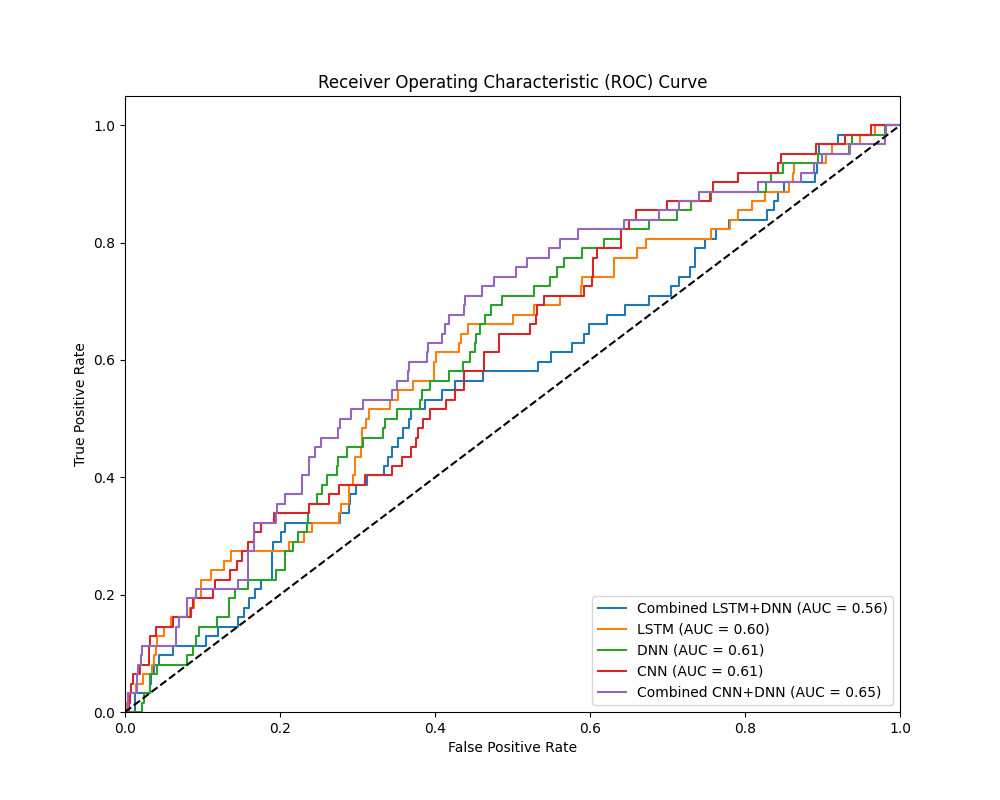
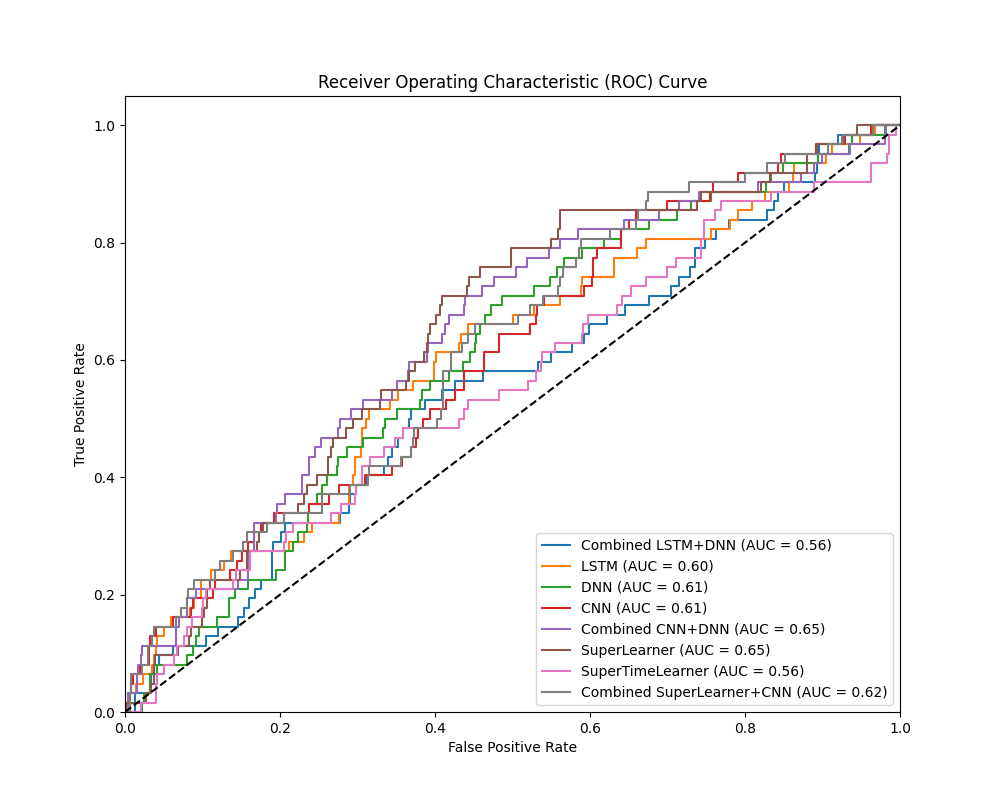
added superlearners

diff --git a/models/models.py b/models/models.py
@@ -1,4 +1,5 @@
 import numpy as np
+from sklearn.base import BaseEstimator, ClassifierMixin
 import torch
 import torch.nn as nn
 import torch.optim as optim
@@ -192,3 +193,198 @@ def init_weights(m):
 
 
 
+import numpy as np
+from sklearn.linear_model import LogisticRegression
+from sklearn.model_selection import KFold
+
+class SuperLearner:
+    def __init__(self, base_models, meta_model=None, n_folds=5):
+        self.base_models = base_models
+        self.meta_model = meta_model if meta_model is not None else LogisticRegression()
+        self.n_folds = n_folds
+
+    def fit(self, X, y):
+        n_models = len(self.base_models)
+        n_samples = X.shape[0]
+        
+        # Initialize out-of-fold predictions
+        S_train = np.zeros((n_samples, n_models))
+        
+        # K-fold cross-validation
+        kf = KFold(n_splits=self.n_folds, shuffle=True, random_state=42)
+        
+        # Train base models and generate out-of-fold predictions
+        for i, model in enumerate(self.base_models):
+            for train_index, val_index in kf.split(X):
+                X_train, X_val = X[train_index], X[val_index]
+                y_train, y_val = y[train_index], y[val_index]
+                
+                model.fit(X_train, y_train)
+                S_train[val_index, i] = model.predict_proba(X_val)[:, 1]
+        
+        # Fit the meta-model on the out-of-fold predictions
+        self.meta_model.fit(S_train, y)
+        
+        # Retrain base models on full dataset
+        for model in self.base_models:
+            model.fit(X, y)
+
+    def predict_proba(self, X):
+        n_models = len(self.base_models)
+        n_samples = X.shape[0]
+        
+        # Generate predictions from base models
+        S_test = np.zeros((n_samples, n_models))
+        for i, model in enumerate(self.base_models):
+            S_test[:, i] = model.predict_proba(X)[:, 1]
+        
+        # Use meta-model to make final predictions
+        return self.meta_model.predict_proba(S_test)
+
+import numpy as np
+from sklearn.model_selection import KFold
+from sklearn.linear_model import LogisticRegression
+from sklearn.ensemble import GradientBoostingClassifier, RandomForestClassifier
+from sklearn.svm import SVC
+from sklearn.preprocessing import StandardScaler
+from sklearn.pipeline import make_pipeline
+
+class SuperLearner:
+    def __init__(self, base_models, meta_model=None, n_folds=5):
+        self.base_models = base_models
+        self.meta_model = meta_model if meta_model is not None else LogisticRegression()
+        self.n_folds = n_folds
+
+    def fit(self, X, y):
+        n_models = len(self.base_models)
+        n_samples = X.shape[0]
+        
+        # Initialize out-of-fold predictions
+        S_train = np.zeros((n_samples, n_models))
+        
+        # K-fold cross-validation
+        kf = KFold(n_splits=self.n_folds, shuffle=True, random_state=42)
+        
+        # Train base models and generate out-of-fold predictions
+        for i, model in enumerate(self.base_models):
+            for train_index, val_index in kf.split(X):
+                X_train, X_val = X[train_index], X[val_index]
+                y_train, y_val = y[train_index], y[val_index]
+                
+                model.fit(X_train, y_train)
+                S_train[val_index, i] = model.predict_proba(X_val)[:, 1]
+        
+        # Fit the meta-model on the out-of-fold predictions
+        self.meta_model.fit(S_train, y)
+        
+        # Retrain base models on full dataset
+        for model in self.base_models:
+            model.fit(X, y)
+
+    def predict_proba(self, X):
+        n_models = len(self.base_models)
+        n_samples = X.shape[0]
+        
+        # Generate predictions from base models
+        S_test = np.zeros((n_samples, n_models))
+        for i, model in enumerate(self.base_models):
+            S_test[:, i] = model.predict_proba(X)[:, 1]
+        
+        # Use meta-model to make final predictions
+        return self.meta_model.predict_proba(S_test)
+
+def create_pytorch_model_wrapper(model_class, **kwargs):
+    class PyTorchModelWrapper:
+        def __init__(self):
+            self.model = model_class(**kwargs)
+            self.model.eval()
+            self.is_combined_model = isinstance(self.model, (CombinedLSTMDnnModel, CombinedCNNDnnModel))
+
+        def fit(self, X, y):
+            self.model.train()
+            if self.is_combined_model:
+                X_bxb, X_cat = X[:, :, :kwargs['bxb_input_size']], X[:, 0, kwargs['bxb_input_size']:]
+                X_bxb_tensor = torch.FloatTensor(X_bxb)
+                X_cat_tensor = torch.FloatTensor(X_cat)
+                y_tensor = torch.FloatTensor(y).unsqueeze(1)
+                dataset = TensorDataset(X_bxb_tensor, X_cat_tensor, y_tensor)
+            else:
+                X_tensor = torch.FloatTensor(X)
+                y_tensor = torch.FloatTensor(y).unsqueeze(1)
+                dataset = TensorDataset(X_tensor, y_tensor)
+            
+            dataloader = DataLoader(dataset, batch_size=64, shuffle=True)
+            
+            criterion = nn.BCEWithLogitsLoss()
+            optimizer = optim.Adam(self.model.parameters())
+            
+            for epoch in range(10):  # You may want to adjust the number of epochs
+                for batch in dataloader:
+                    optimizer.zero_grad()
+                    if self.is_combined_model:
+                        X_bxb_batch, X_cat_batch, y_batch = batch
+                        outputs = self.model(X_bxb_batch, X_cat_batch)
+                    else:
+                        X_batch, y_batch = batch
+                        outputs = self.model(X_batch)
+                    loss = criterion(outputs, y_batch)
+                    loss.backward()
+                    optimizer.step()
+            
+            self.model.eval()
+
+        def predict_proba(self, X):
+            with torch.no_grad():
+                if self.is_combined_model:
+                    X_bxb, X_cat = X[:, :, :kwargs['bxb_input_size']], X[:, 0, kwargs['bxb_input_size']:]
+                    X_bxb_tensor = torch.FloatTensor(X_bxb)
+                    X_cat_tensor = torch.FloatTensor(X_cat)
+                    outputs = self.model(X_bxb_tensor, X_cat_tensor)
+                else:
+                    X_tensor = torch.FloatTensor(X)
+                    outputs = self.model(X_tensor)
+                probs = torch.sigmoid(outputs)
+            return np.column_stack((1 - probs.numpy(), probs.numpy()))
+
+    return PyTorchModelWrapper()
+
+def create_timeseries_model_wrapper(model_class, **kwargs):
+    class TimeSeriesModelWrapper:
+        def __init__(self):
+            # For CNNModel, input_channels and seq_length are expected, not input_size and hidden_size
+            if model_class == CNNModel:
+                self.model = model_class(input_channels=kwargs['input_channels'], seq_length=kwargs['seq_length'], output_size=kwargs['output_size'])
+            else:
+                self.model = model_class(input_size=kwargs['input_size'], hidden_size=kwargs['hidden_size'], output_size=kwargs['output_size'])
+            self.model.eval()
+
+        def fit(self, X, y):
+            self.model.train()
+            X_tensor = torch.FloatTensor(X)
+            y_tensor = torch.FloatTensor(y).unsqueeze(1)
+            dataset = TensorDataset(X_tensor, y_tensor)
+            dataloader = DataLoader(dataset, batch_size=64, shuffle=True)
+
+            criterion = nn.BCEWithLogitsLoss()
+            optimizer = optim.Adam(self.model.parameters())
+
+            for epoch in range(10):  # Adjust the number of epochs as needed
+                for batch in dataloader:
+                    optimizer.zero_grad()
+                    X_batch, y_batch = batch
+                    outputs = self.model(X_batch)
+                    loss = criterion(outputs, y_batch)
+                    loss.backward()
+                    optimizer.step()
+
+            self.model.eval()
+
+        def predict_proba(self, X):
+            self.model.eval()
+            with torch.no_grad():
+                X_tensor = torch.FloatTensor(X)
+                outputs = self.model(X_tensor)
+                probs = torch.sigmoid(outputs)
+            return np.column_stack((1 - probs.numpy(), probs.numpy()))  # Return probabilities
+
+    return TimeSeriesModelWrapper()

diff --git a/run_mort_models.py b/run_mort_models.py
@@ -1,11 +1,16 @@
 import os
 import numpy as np
+from sklearn.discriminant_analysis import StandardScaler
+from sklearn.ensemble import GradientBoostingClassifier, RandomForestClassifier
+from sklearn.linear_model import LogisticRegression
 from sklearn.metrics import (
     average_precision_score,
     confusion_matrix,
     precision_recall_fscore_support,
     roc_auc_score,
 )
+from sklearn.pipeline import make_pipeline
+from sklearn.svm import SVC
 import torch
 import torch.nn as nn
 import torch.optim as optim
@@ -16,6 +21,8 @@ from models.models import (
     CombinedLSTMDnnModel,
     DNNModel,
     LSTMModel,
+    SuperLearner,
+    create_timeseries_model_wrapper,
     init_weights,
     load_and_preprocess_data,
     set_random_seeds,
@@ -161,6 +168,59 @@ def train_model(
         )
 
     return epoch_results
+
+class CombinedSuperLearnerCNNModel:
+    def __init__(self, superlearner, cnn_model):
+        self.superlearner = superlearner
+        self.cnn_model = cnn_model
+        self.meta_model = LogisticRegression()
+
+    def fit(self, X_cat, X_bxb, y):
+        # Get predictions from SuperLearner
+        superlearner_probs = self.superlearner.predict_proba(X_cat)[:, 1]
+
+        # Get predictions from CNN
+        self.cnn_model.eval()
+        with torch.no_grad():
+            cnn_probs = torch.sigmoid(self.cnn_model(torch.FloatTensor(X_bxb))).numpy().flatten()
+
+        # Combine predictions
+        X_combined = np.column_stack((superlearner_probs, cnn_probs))
+
+        # Train meta-model
+        self.meta_model.fit(X_combined, y)
+
+    def predict_proba(self, X_cat, X_bxb):
+        # Get predictions from SuperLearner
+        superlearner_probs = self.superlearner.predict_proba(X_cat)[:, 1]
+
+        # Get predictions from CNN
+        self.cnn_model.eval()
+        with torch.no_grad():
+            cnn_probs = torch.sigmoid(self.cnn_model(torch.FloatTensor(X_bxb))).numpy().flatten()
+
+        # Combine predictions
+        X_combined = np.column_stack((superlearner_probs, cnn_probs))
+
+        # Get final predictions
+        return self.meta_model.predict_proba(X_combined)[:, 1]
+
+    def evaluate(self, X_cat_test, X_bxb_test, y_test):
+        probs = self.predict_proba(X_cat_test, X_bxb_test)
+        preds = (probs > 0.5).astype(int)
+
+        roc_auc = roc_auc_score(y_test, probs)
+        pr_auc = average_precision_score(y_test, probs)
+        precision, recall, f1, _ = precision_recall_fscore_support(y_test, preds, average='binary')
+
+        return {
+            'roc_auc': roc_auc,
+            'pr_auc': pr_auc,
+            'precision': precision,
+            'recall': recall,
+            'f1_score': f1
+        }
+
 
 
 def create_model_and_loaders(
@@ -462,7 +522,51 @@ def main():
             num_epochs=best_params["num_epochs"],
             model_name="Combined CNN+DNN",
         )
+        print("X_bxb_train shape:", X_bxb_train.shape)
+        print("X_cat_train shape:", X_cat_train.shape)
+        print("y_train shape:", y_train.shape)
+    
+    #Superlearner
+    # Create base models
+        base_models = [
+            make_pipeline(StandardScaler(), LogisticRegression(random_state=42)),
+            make_pipeline(StandardScaler(), GradientBoostingClassifier(random_state=42)),
+            make_pipeline(StandardScaler(), SVC(probability=True, random_state=42)),
+            make_pipeline(StandardScaler(), RandomForestClassifier(random_state=42)),
+        ]
 
+
+        # Create SuperLearner
+        superlearner = SuperLearner(base_models, meta_model=LogisticRegression())
+        superlearner.fit(X_cat_train, y_train)
+
+                # Wrapping your existing LSTM and CNN models
+        lstm_wrapper = create_timeseries_model_wrapper(LSTMModel, input_size=X_bxb_train.shape[2], hidden_size=16, output_size=1)
+        # For CNNModel, pass input_channels and seq_length instead of input_size and hidden_size
+        cnn_wrapper = create_timeseries_model_wrapper(
+            CNNModel,
+            input_channels=X_bxb_train.shape[2],  # Channels typically correspond to features in timeseries data
+            seq_length=X_bxb_train.shape[1],  # Sequence length corresponds to the time dimension
+            output_size=1  # Binary classification
+        )
+
+        # Define the SuperLearner with timeseries models only
+        base_models = [
+            lstm_wrapper,
+            cnn_wrapper
+        ]
+
+        # Create SuperLearner using Logistic Regression as the meta-model
+        supertimelearner = SuperLearner(base_models=base_models, meta_model=LogisticRegression())
+
+        # Fit the SuperLearner on your timeseries data
+        supertimelearner.fit(X_bxb_train, y_train)
+
+
+
+        ####################
+        # MODEL EVALUATION #
+        ####################
         df = pd.DataFrame(combined_lstm_dnn_results)
         df["model"] = "Combined LSTM+DNN"
         df2 = pd.DataFrame(lstm_results)
@@ -498,7 +602,7 @@ def main():
 
         all_labels = []
         all_probs = []
-        model_names = ["Combined LSTM+DNN", "LSTM", "DNN", "CNN", "Combined CNN+DNN"]
+        model_names = ["Combined LSTM+DNN", "LSTM", "DNN", "CNN", "Combined CNN+DNN", "SuperLearner", "SuperTimeLearner"]
 
         for model_name in model_names:
             if model_name == "Combined LSTM+DNN":
@@ -521,13 +625,35 @@ def main():
                 metrics, preds, labels, probs = evaluate_model(
                     combined_cnn_model, combined_test_loader, criterion
                 )
+            elif model_name == "SuperLearner":
+                probs = superlearner.predict_proba(X_cat_test)[:,1]
+                preds = (probs > 0.5).astype(int)
+                labels = y_test
+            elif model_name == "SuperTimeLearner":
+                probs = supertimelearner.predict_proba(X_bxb_test)[:,1]
+                preds = (probs > 0.5).astype(int)
+                labels = y_test
+           
+
+
 
             all_labels.append(labels)
             all_probs.append(probs)
 
+            
+
+        # lets create a model that uses the pretrained CNN + Superlearner models to make predictions on the test set
+
+        # Usage in main function:
+        combined_model = CombinedSuperLearnerCNNModel(superlearner, cnn_model)
+        combined_model.fit(X_cat_train, X_bxb_train, y_train)
+        combined_metrics = combined_model.evaluate(X_cat_test, X_bxb_test, y_test)
+        all_probs.append(combined_model.predict_proba(X_cat_test, X_bxb_test))
+        all_labels.append(y_test)
+        model_names.append("Combined SuperLearner+CNN")
         plot_roc_curve(all_labels, all_probs, model_names, f"saved_models/mortality/{day}")
 
-
+    
 
 if __name__ == "__main__":
     main()
